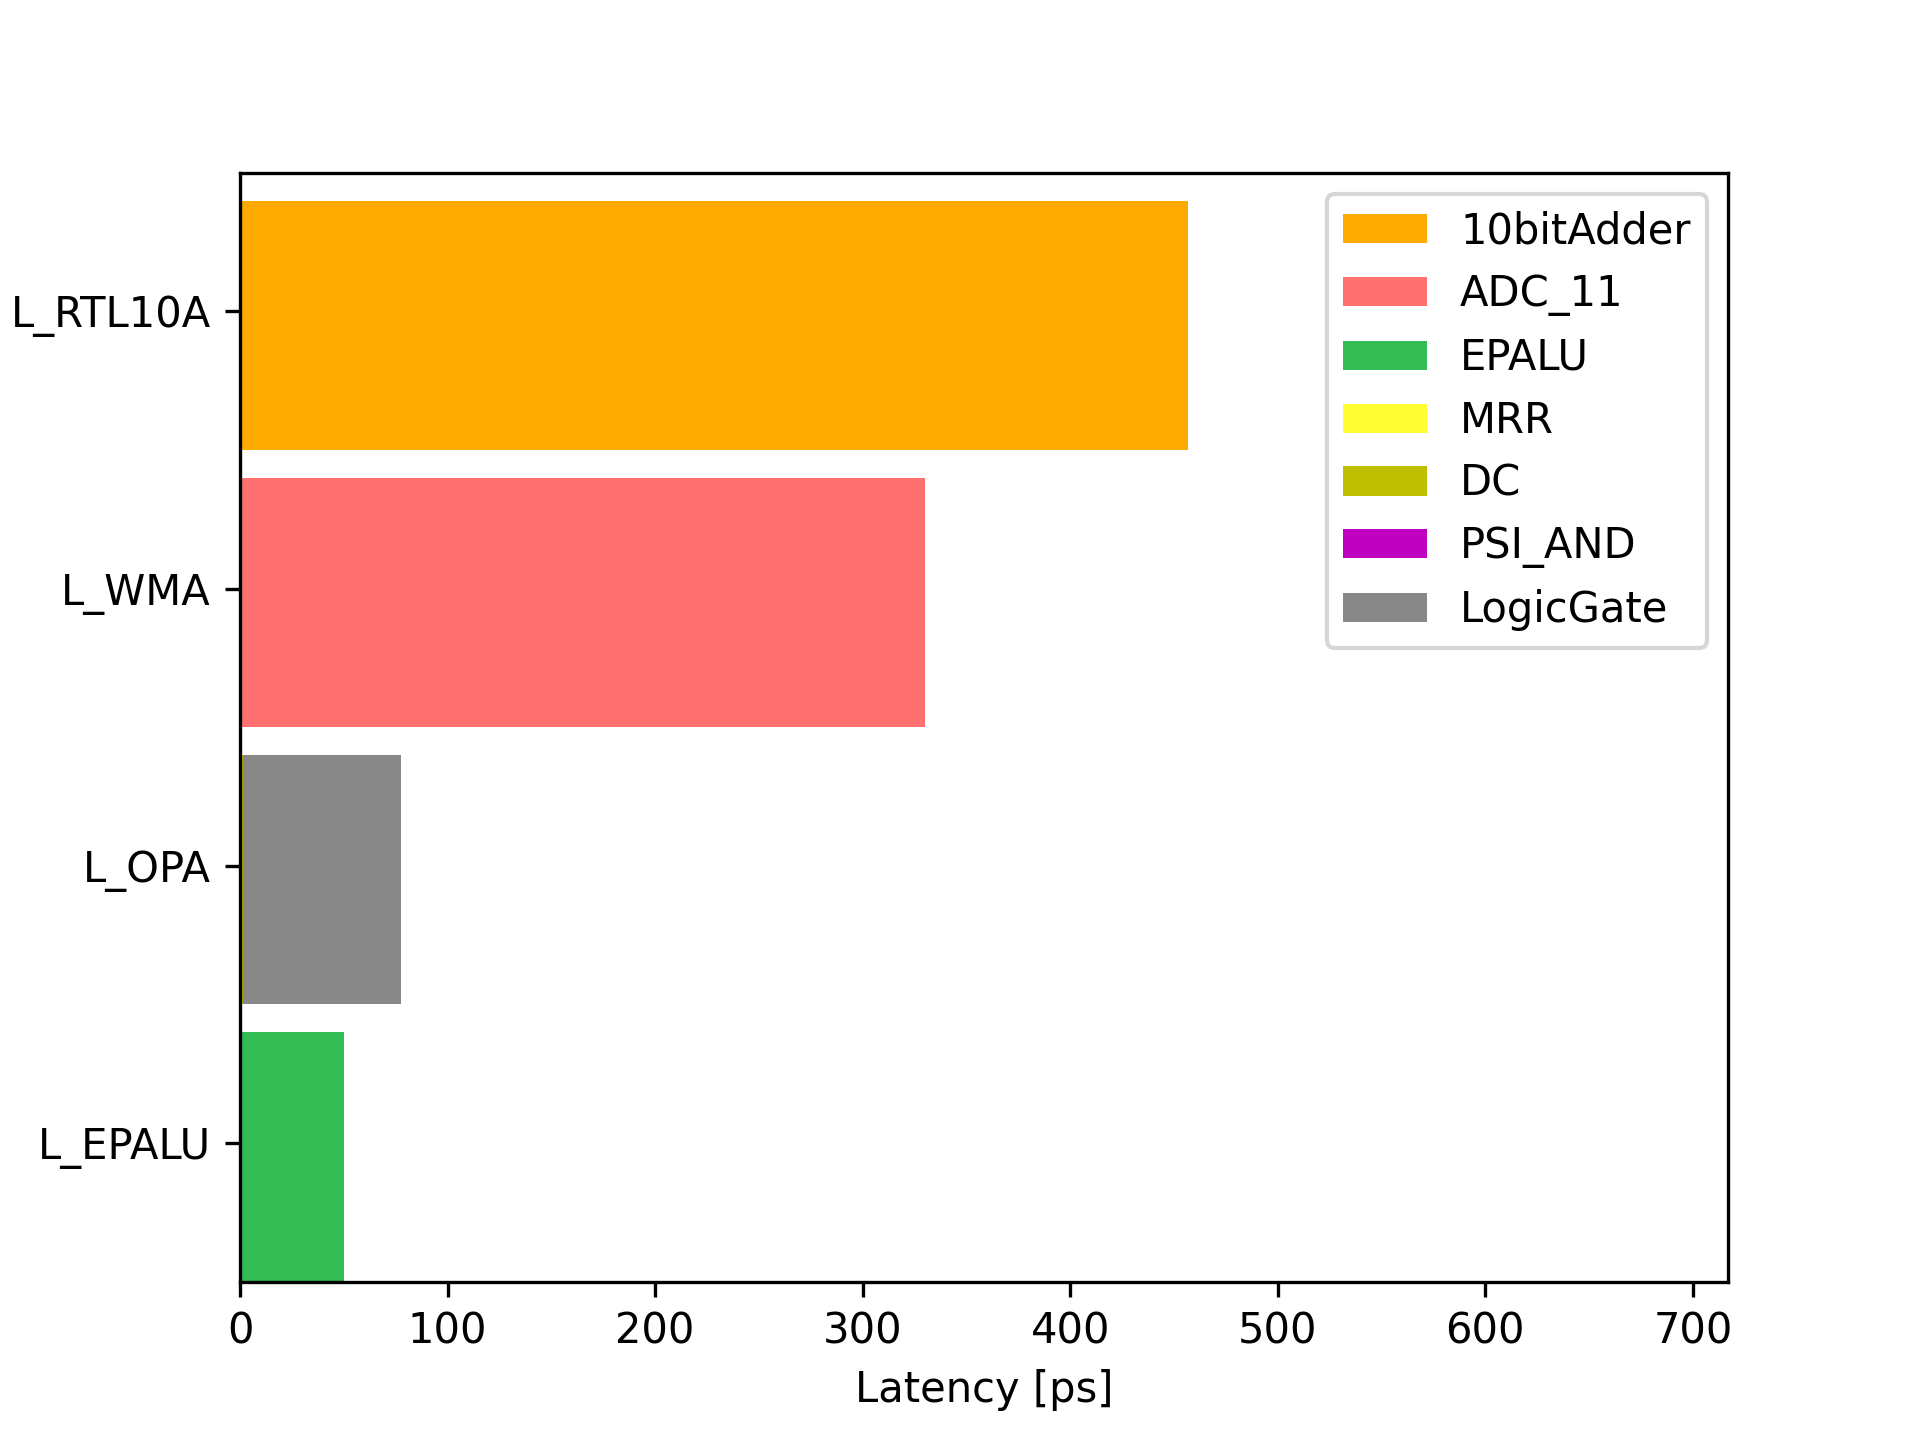
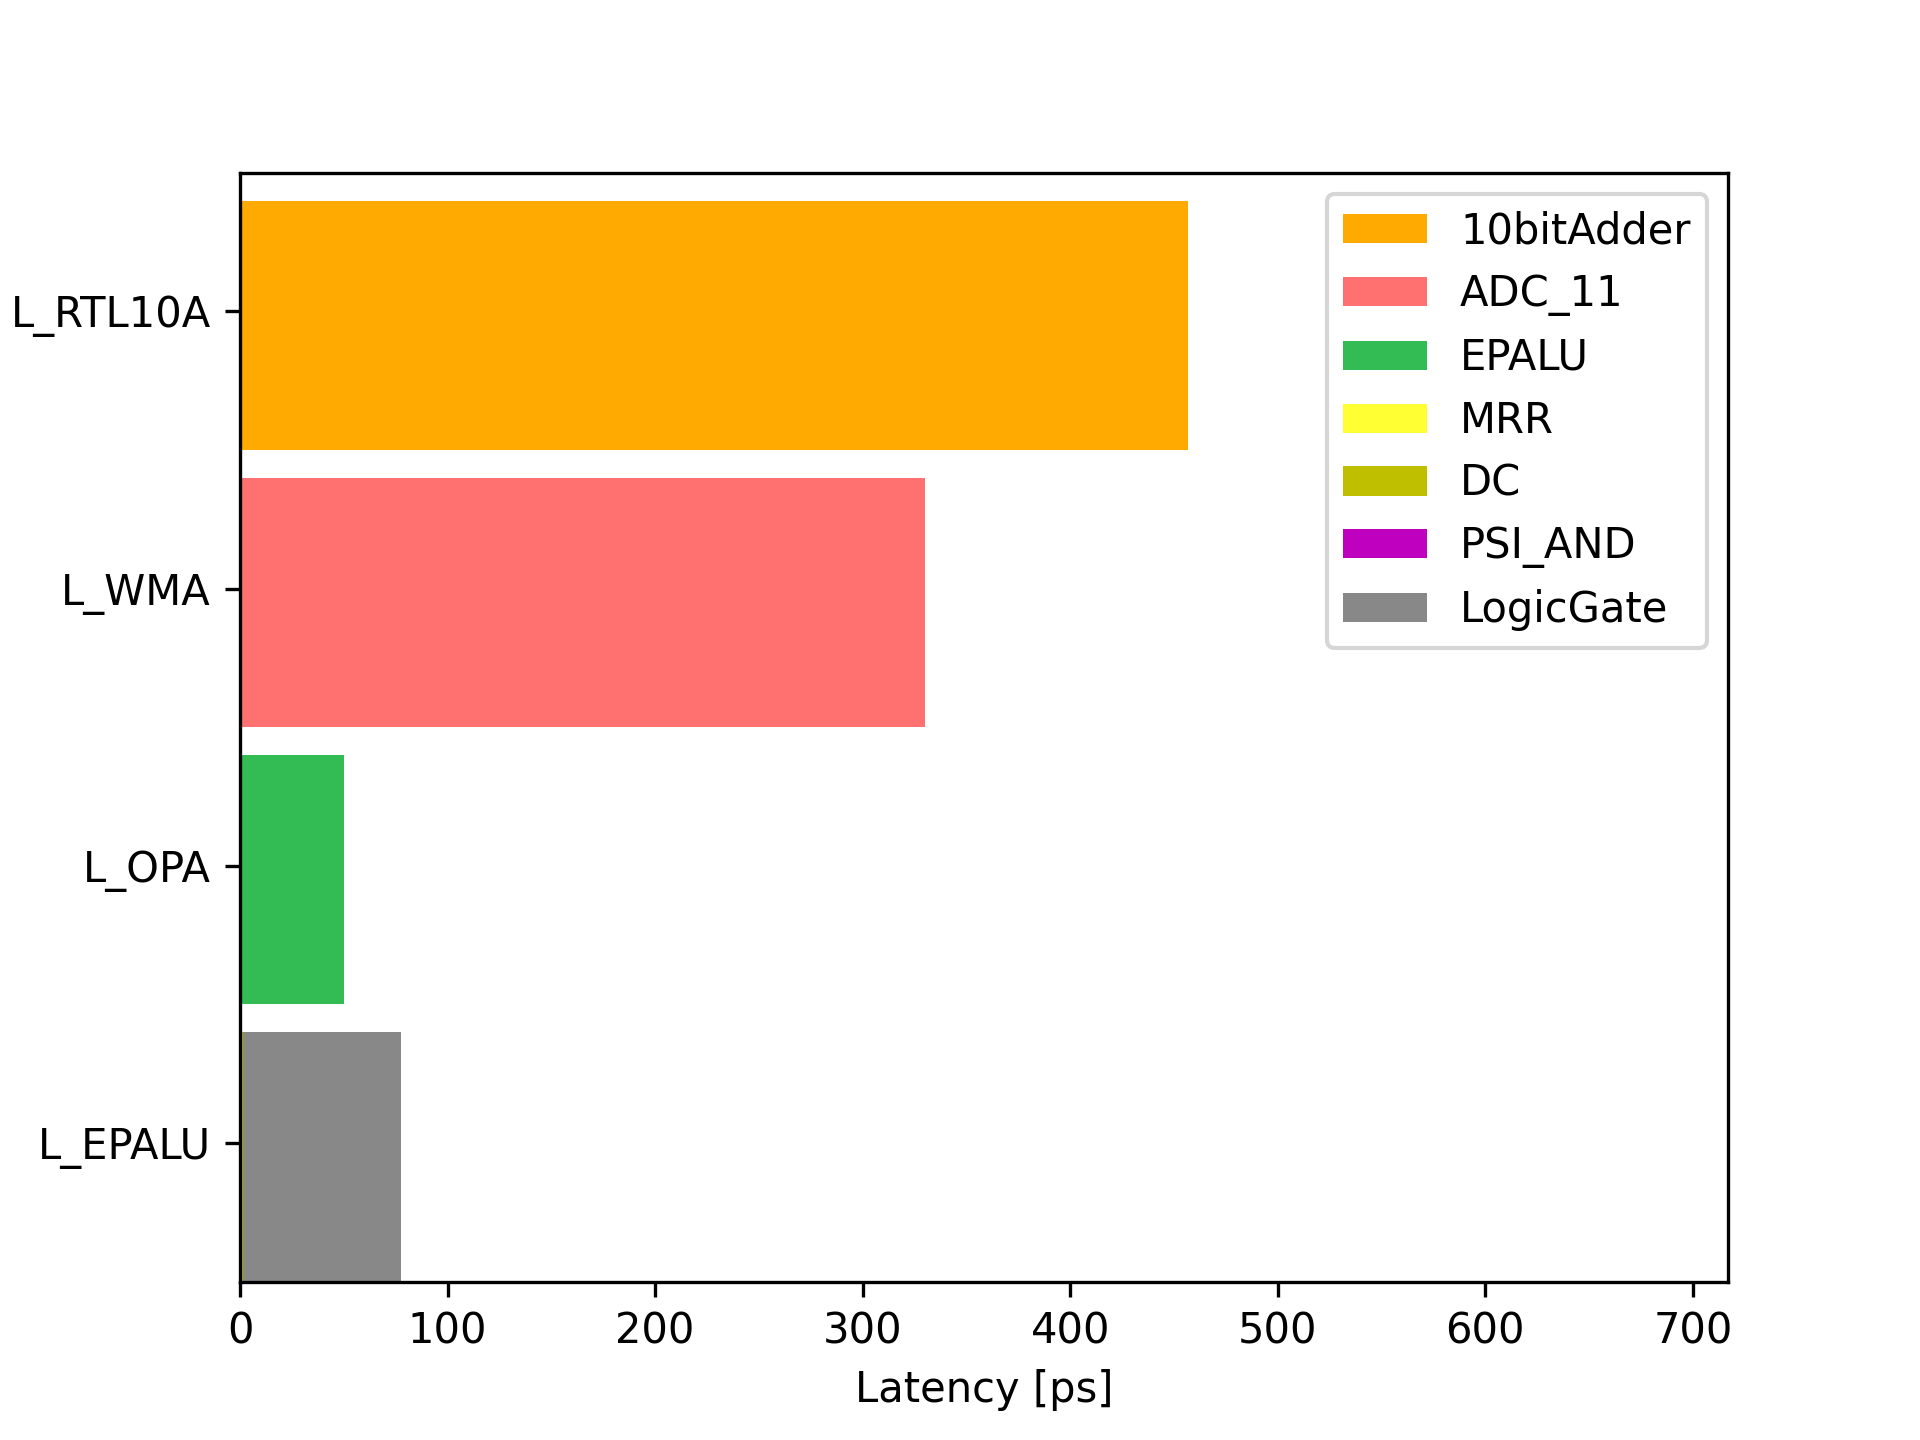
0308

Changed region(s): [[0.125, 0.5, 0.2188, 0.9062]]

diff --git a/optics-analyze/optics-analyze-latency.py b/optics-analyze/optics-analyze-latency.py
@@ -64,14 +64,14 @@ for i, latency in enumerate(late_WMAU_list):
     # ax.broken_barh([(sum(power_WMAU[:2]), power_WMAU[2])], (20, 9), facecolors='#ff7070', label=components_WMAU[2])
 
 # p_epalu の描画
-ax.broken_barh([(0, late_EPALU)], (0, 9), facecolors='#33bb54', label='EPALU')
+ax.broken_barh([(0, late_EPALU)], (10, 9), facecolors='#33bb54', label='EPALU')
 
 # p_OPAの描画
 start = 0
 # colors = ['#ffff33', 'y', 'm','#ff0000','#888888']
 colors = ['#ffff33', 'y', 'm','#888888']
 for i, latency in enumerate(late_OPA_list):
-    ax.broken_barh([(start, latency)], (10, 9), facecolors=colors[i], label=late_OPA_namelist[i])
+    ax.broken_barh([(start, latency)], (0, 9), facecolors=colors[i], label=late_OPA_namelist[i])
     start += latency
 
 # グラフの設定
